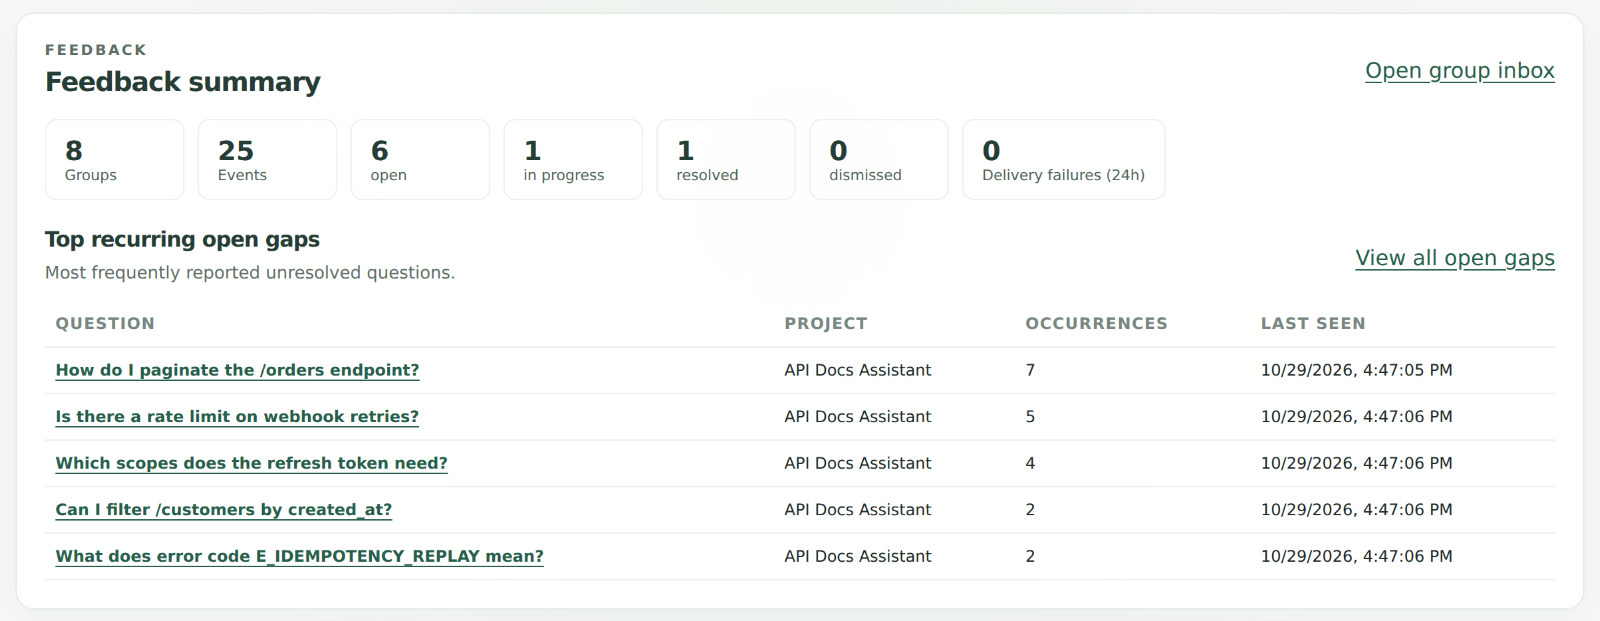
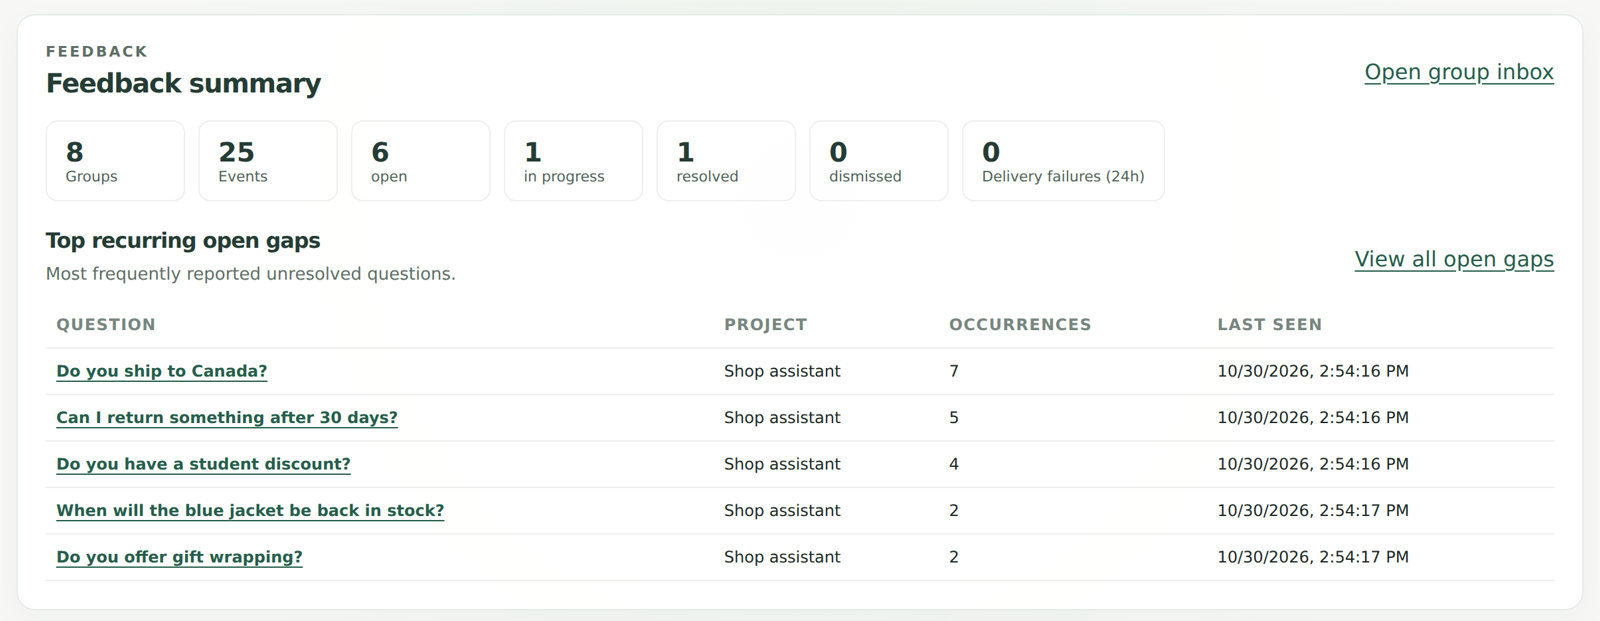
Use shop assistant shipping question in README demo

diff --git a/docs/assets/demo-src/src/scenes/1-problem.tsx b/docs/assets/demo-src/src/scenes/1-problem.tsx
@@ -2,7 +2,7 @@ import {Layout, Rect, Txt, makeScene2D} from '@motion-canvas/2d';
 import {all, createRef, waitFor} from '@motion-canvas/core';
 import {C, H, MONO, SANS, W, caption, progress} from '../lib';
 
-// Scene 1: the problem. A generic chat (no brand), then the point: nobody on the docs team hears about it.
+// Scene 1: a customer's question goes unanswered by a made-up shop's chatbot.
 export default makeScene2D(function* (view) {
   view.fill(C.ink);
   const cap = createRef<Txt>();
@@ -13,10 +13,10 @@ export default makeScene2D(function* (view) {
 
   view.add(
     <>
-      {caption(cap, 'Your AI gets a question your docs don’t cover.', '#fff')}
+      {caption(cap, 'A customer asks your shop’s chatbot.', '#fff')}
       <Txt
         ref={cap2}
-        text="The API docs team needs to hear about it."
+        text="The shop team never sees the question."
         x={-W / 2 + 80}
         y={-H / 2 + 70}
         offset={[-1, -1]}
@@ -30,12 +30,12 @@ export default makeScene2D(function* (view) {
         fill={C.amber}
         opacity={0}
       />
-      <Txt ref={label} text="YOUR AI ASSISTANT" x={-W / 2 + 80} y={10} offset={[-1, 0]} fontFamily={SANS} fontWeight={700} fontSize={20} letterSpacing={3} fill="#7fa493" />
+      <Txt ref={label} text="SHOP ASSISTANT" x={-W / 2 + 80} y={10} offset={[-1, 0]} fontFamily={SANS} fontWeight={700} fontSize={20} letterSpacing={3} fill="#7fa493" />
       <Rect layout ref={user} x={W / 2 - 80} y={90} offset={[1, 0]} padding={[22, 32]} radius={[28, 28, 6, 28]} fill="#2f4a3f">
-        <Txt text="How do I paginate the /orders endpoint?" fontFamily={SANS} fontWeight={700} fontSize={34} fill="#fff" width={660} textWrap />
+        <Txt text="Do you ship to Canada?" fontFamily={SANS} fontWeight={700} fontSize={34} fill="#fff" width={660} textWrap />
       </Rect>
       <Rect layout ref={agent} x={-W / 2 + 80} y={210} offset={[-1, 0]} padding={[22, 32]} radius={[28, 28, 28, 6]} fill="#fff" opacity={0} scale={0.9} stroke={C.amber} lineWidth={0}>
-        <Txt text="I don’t know. I couldn’t find that in my sources." fontFamily={SANS} fontWeight={700} fontSize={34} fill={C.ink} textWrap width={640} />
+        <Txt text="Sorry, I don't know." fontFamily={SANS} fontWeight={700} fontSize={34} fill={C.ink} textWrap width={640} />
       </Rect>
       {progress(1, true)}
     </>,

diff --git a/docs/assets/demo-src/src/scenes/3-route.tsx b/docs/assets/demo-src/src/scenes/3-route.tsx
@@ -4,7 +4,7 @@ import {C, H, SANS, W, caption, progress, shotCard} from '../lib';
 import routing from '../../shots/routing.png';
 import deliveries from '../../shots/deliveries.png';
 
-// Scene 3: a routing rule sends the group to the docs owner; the delivery log shows it delivered.
+// Scene 3: a routing rule sends the report to the store team; the delivery log shows it delivered.
 const RULE_Y = 85;
 const LOG_Y = 245;
 const ruleCrop = {x: 40, y: 160, w: 1470, h: 165};
@@ -21,7 +21,7 @@ export default makeScene2D(function* (view) {
   
   view.add(
     <>
-      {caption(cap, 'A configured rule routes the report to the API docs webhook.', C.dark)}
+      {caption(cap, 'A configured rule routes the report to the store team.', C.dark)}
       {shotCard(rule, routing, 1556, 982, ruleCrop, 1120)}
       {shotCard(log, deliveries, 2560, 1440, logCrop, 1120)}
       {/* First delivery row sits 56 to 144 px into the crop. */}

diff --git a/docs/assets/demo-src/src/scenes/4-group.tsx b/docs/assets/demo-src/src/scenes/4-group.tsx
@@ -26,7 +26,7 @@ export default makeScene2D(function* (view) {
       <Rect layout ref={pill} x={330} y={CARD_Y - 190} fill={C.green} radius={40} padding={[10, 30]} opacity={0} scale={0.6}>
         <Txt ref={n} text="1 occurrence" fontFamily={SANS} fontWeight={800} fontSize={46} letterSpacing={-1} fill="#fff" />
       </Rect>
-      {/* Dim the other groups so the eye stays on the /orders row (first row is 73 to 158 px into the crop). */}
+      {/* Dim the other groups so the eye stays on the Canada question (first row is 73 to 158 px into the crop). */}
       <Rect y={CARD_Y + (crop.h * s) / 2 - (crop.h - 158) * s / 2} width={CARD_W} height={(crop.h - 158) * s} fill="rgba(246,248,246,0.72)" />
       {progress(4, false)}
     </>,

diff --git a/docs/assets/demo-src/src/scenes/2-report.tsx b/docs/assets/demo-src/src/scenes/2-report.tsx
@@ -55,8 +55,8 @@ export default makeScene2D(function* (view) {
 
   yield* card().opacity(1, 0.3);
   yield* l1().text('tools/call  report_knowledge_gap', 0.9);
-  yield* l2().text('question: "How do I paginate the /orders endpoint?"', 1.0);
-  yield* l3().text('tags:     api, pagination', 0.5);
+  yield* l2().text('question: "Do you ship to Canada?"', 1.0);
+  yield* l3().text('tags:     shipping', 0.5);
   yield* waitFor(0.4);
   yield* all(ok().opacity(1, 0.25), l4().text(`event_id ${result.event_id.slice(0, 8)}…`, 0.5));
   yield* waitFor(1.6);

diff --git a/README.md b/README.md
@@ -9,7 +9,7 @@
 
 Your AI app reports each question it couldn't answer; Kebivo groups the repeats and routes them to whoever can fix the docs.
 
-![Demo: an assistant cannot answer how to paginate the /orders endpoint. It reports the question to Kebivo over MCP; a configured webhook route delivers it. A second report of the same question joins one inbox group with 2 occurrences. Product frames use sample data from a real Kebivo container.](docs/assets/demo.gif)
+![Demo: a customer asks a shop's AI support chatbot, "Do you ship to Canada?" The bot cannot answer. The app reports the question to Kebivo over MCP; a configured webhook route delivers it. A second report joins one inbox group with 2 occurrences. Product frames use sample data from a real Kebivo container.](docs/assets/demo.gif)
 
 [![CI](https://github.com/OCNAI/kebivo/actions/workflows/ci.yml/badge.svg?branch=main)](https://github.com/OCNAI/kebivo/actions/workflows/ci.yml)
 [![License: Apache-2.0](https://img.shields.io/badge/license-Apache--2.0-blue.svg)](LICENSE)
@@ -29,7 +29,7 @@ curl -fsS --retry 30 --retry-all-errors --retry-delay 1 http://127.0.0.1:8000/he
 **Without Kebivo:** the bot says it couldn't find the answer, the user gives up, and the question sits in a log nobody reads.\
 **With Kebivo:** the question shows up once in the inbox with a repeat count, and your routing rules can send it to Slack, email or a webhook for whoever owns those docs.
 
-![Kebivo group inbox with sample data: "How do I paginate the /orders endpoint?" has 7 occurrences, alongside other open knowledge gaps from an API docs assistant.](docs/assets/screenshots/inbox.png)
+![Kebivo group inbox with sample data from a shop assistant: "Do you ship to Canada?" has 7 occurrences, alongside other customer questions the chatbot could not answer.](docs/assets/screenshots/inbox.png)
 
 <sub>Group inbox from a real Kebivo 0.2.0 container with sample data.</sub>
 
@@ -52,8 +52,8 @@ When an assistant cannot answer, the documentation owner may never see the quest
 - Send reports from application code through REST, or give agents the Streamable HTTP MCP tools `report_knowledge_gap` and `submit_knowledge_correction`.
 - Create one project per assistant or team, with default tags, a corrections policy, and bearer tokens that are shown once, can expire and can be revoked.
 - Route reports with ordered rules, ANY/ALL tag matching, several destinations per rule, a fallback, and a dry-run simulator.
-- Deliver to signed webhooks with a versioned JSON payload, SMTP email, or the built-in inbox. Deliveries have durable retries with backoff, restart recovery, a delivery log and manual retry.
-- Identical questions are grouped automatically. You can also configure an LLM provider for semantic grouping.
+- Deliver to signed webhooks with a versioned JSON payload, Slack incoming webhooks, SMTP email, or the built-in inbox. Deliveries have durable retries with backoff, restart recovery, a delivery log and manual retry.
+- Questions that match exactly, ignoring case, extra whitespace, quote and dash styles, and trailing `?`, `!` or `.`, are grouped automatically. You can also configure an LLM provider for semantic grouping.
 - Triage reports in the inbox with search, filters, statuses, notes, tags, merge, split and deletion. Each group has a full history.
 - Enable OpenAI-compatible, Azure OpenAI or local (Ollama, LM Studio) providers for semantic grouping on a per-project basis. This is off by default.
 - Run one container with one SQLite file. Startup migrations, online backup and checked restore, retention (on by default), JSON Lines export, and health checks are included.
@@ -97,7 +97,7 @@ Curl may print a few `Connection reset` errors while migrations run. Readiness r
 read -rsp 'Admin password (12+ characters): ' KEBIVO_ADMIN_PASSWORD; printf '\n'
 printf '%s\n' "$KEBIVO_ADMIN_PASSWORD" | docker exec -i kebivo python -m kebivo.cli bootstrap --email admin@example.org --password-stdin
 unset KEBIVO_ADMIN_PASSWORD
-KEBIVO_PROJECT="$(docker exec kebivo python -m kebivo.cli project create --name 'API docs assistant' --json)"
+KEBIVO_PROJECT="$(docker exec kebivo python -m kebivo.cli project create --name 'Shop assistant' --json)"
 KEBIVO_TOKEN="$(printf '%s' "$KEBIVO_PROJECT" | python3 -c 'import json,sys; print(json.load(sys.stdin)["token"])')"
 ```
 
@@ -107,16 +107,16 @@ KEBIVO_TOKEN="$(printf '%s' "$KEBIVO_PROJECT" | python3 -c 'import json,sys; pri
 curl -i http://127.0.0.1:8000/api/v1/feedback \
   -H 'Content-Type: application/json' \
   -H "Authorization: Bearer $KEBIVO_TOKEN" \
-  -H 'Idempotency-Key: orders-gap-001' \
-  --data '{"event_type":"knowledge_gap","question":"How do I paginate the /orders endpoint?","tags":["api-docs"]}'
+  -H 'Idempotency-Key: canada-gap-001' \
+  --data '{"event_type":"knowledge_gap","question":"Do you ship to Canada?","tags":["shipping"]}'
 curl -i http://127.0.0.1:8000/api/v1/feedback \
   -H 'Content-Type: application/json' \
   -H "Authorization: Bearer $KEBIVO_TOKEN" \
-  -H 'Idempotency-Key: orders-gap-002' \
-  --data '{"event_type":"knowledge_gap","question":"How do I paginate the /orders endpoint?","tags":["api-docs"]}'
+  -H 'Idempotency-Key: canada-gap-002' \
+  --data '{"event_type":"knowledge_gap","question":"Do you ship to Canada?","tags":["shipping"]}'
 ```
 
-Both responses are `202 Accepted` with distinct `event_id` values. Open <http://127.0.0.1:8000/>, sign in, and find **How do I paginate the /orders endpoint?** in the Inbox with **2 occurrences**. Use exactly `127.0.0.1`: `localhost` is a different origin, and sign-in names the allowed origin if you use the wrong one. You can also create projects and tokens in the UI.
+Both responses are `202 Accepted` with distinct `event_id` values. Open <http://127.0.0.1:8000/>, sign in, and find **Do you ship to Canada?** in the Inbox with **2 occurrences**. Use exactly `127.0.0.1`: `localhost` is a different origin, and sign-in names the allowed origin if you use the wrong one. You can also create projects and tokens in the UI.
 
 For a signed webhook delivery, follow step 4 of the [Docker guide](docs/quickstart.md).
 
@@ -184,8 +184,6 @@ Each project has ordered rules: a rule matches ANY or ALL of its tags and sends 
 ## Optional AI
 
 No model is called by default. To group questions that are worded differently, configure an LLM provider (**LLM settings** in the UI) and switch a project to semantic deduplication after acknowledging that question text will be sent to that provider. If the provider fails, the event keeps its own group and is still routed and delivered. See [deduplication](docs/deduplication.md) and [LLM providers](docs/llm-providers.md).
-
-Embeddings are an opt-in, precision-first option that needs an [embedding endpoint](docs/llm-providers.md#ollama-recipe); the default install groups exact repeats only. With `nomic-embed-text`, the default 0.93 threshold grouped only about 3% of paraphrases in a 150-pair synthetic test; use the LLM judge method for useful paraphrase grouping.
 
 ## Security
 

diff --git a/docs/assets/demo-src/README.md b/docs/assets/demo-src/README.md
@@ -1,12 +1,12 @@
 # Kebivo README demo source
 
-Motion Canvas project behind `../demo.gif`. The story uses the same `/orders` question as the README Quickstart. Product UI frames were captured from a fresh `ghcr.io/ocnai/kebivo:0.2.0` container with synthetic data. The chat and end card are drawn. The end card imports the approved Concept C lockup directly from `../logo/lockup.svg`.
+Motion Canvas project behind `../demo.gif`. A customer asks a made-up shop's chatbot "Do you ship to Canada?" and gets "Sorry, I don't know." The app reports that question, and Kebivo counts the repeats. Product UI frames were captured from a fresh `ghcr.io/ocnai/kebivo:0.2.0` container with synthetic data. The chat and end card are drawn. The end card imports the approved Concept C lockup directly from `../logo/lockup.svg`.
 
 | Scene | What it shows |
 | --- | --- |
-| 1 | A drawn assistant chat cannot answer the `/orders` pagination question |
+| 1 | A drawn shop assistant chat cannot answer the customer's Canada shipping question |
 | 2 | The app's discretionary MCP `report_knowledge_gap` call returns `status: accepted`; this acknowledges intake, not delivery |
-| 3 | A configured routing rule sends the report to the API docs webhook, with a real delivered row |
+| 3 | A configured shipping rule sends the report to the store team webhook, with a real delivered row |
 | 4 | A second, deterministic REST submission of the same question joins the existing group, raising its count from 1 to 2 |
 | 5 | End card with the approved lockup and the visible value proposition |
 
@@ -38,4 +38,22 @@ printf 'DemoPassw0rd-2026\nDemoPassw0rd-2026\n' | docker exec -i kdemo python -m
 node capture/capture.mjs
 ```
 
-`capture.mjs` creates an API Docs Assistant project, webhook destination and routing rule. Its first report uses MCP; the second uses REST. The crops used in the animation exclude the old header mark in the 0.2.0 container UI. No documentation change or automatic fix is depicted.
+`capture.mjs` creates a Shop assistant project, store team webhook destination and shipping routing rule. Its first report uses MCP; the second uses REST. The crops used in the animation exclude the old header mark in the 0.2.0 container UI. No documentation change or automatic fix is depicted.
+
+## Re-capture the README screenshots
+
+Use a separate fresh container so the sample inbox has exactly the eight questions in `capture/readme-shots.mjs`. From this directory, after `npm ci` and with Playwright installed in `frontend/node_modules`:
+
+```sh
+docker run -d --name kreadme -p 127.0.0.1:18322:8000 \
+  -e SECRET_KEY=$(openssl rand -hex 32) -e ENCRYPTION_KEY=$(openssl rand -hex 32) \
+  -e ALLOWED_ORIGINS=http://127.0.0.1:18322 ghcr.io/ocnai/kebivo:0.2.0
+printf 'DemoPassw0rd-2026\nDemoPassw0rd-2026\n' | docker exec -i kreadme python -m kebivo.cli bootstrap --email admin@example.org --password-stdin
+BASE=http://127.0.0.1:18322 node capture/readme-shots.mjs
+node_modules/ffmpeg-static/ffmpeg -loglevel error -y -i shots-readme/raw-inbox.png \
+  -vf 'scale=1600:-1,crop=1600:923:0:90' -frames:v 1 ../screenshots/inbox.png
+node_modules/ffmpeg-static/ffmpeg -loglevel error -y -i shots-readme/raw-dashboard.png \
+  -vf 'scale=1700:-1,crop=1600:621:50:270' -frames:v 1 ../screenshots/dashboard.png
+```
+
+Wait for `/health/ready` before bootstrap. The capture creates the Shop assistant project and synthetic reports; it sorts the inbox by occurrence count for the README image.
